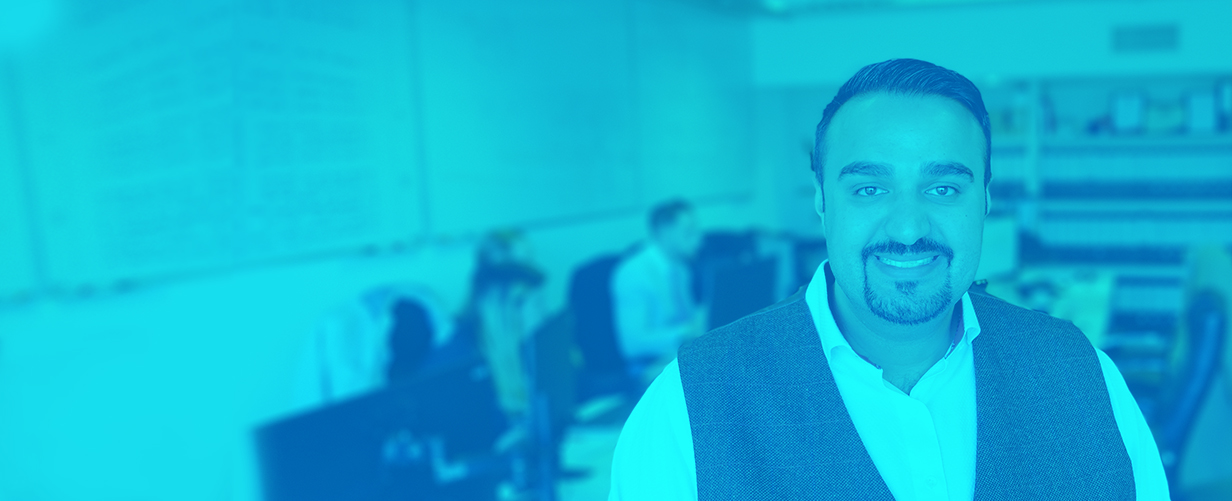
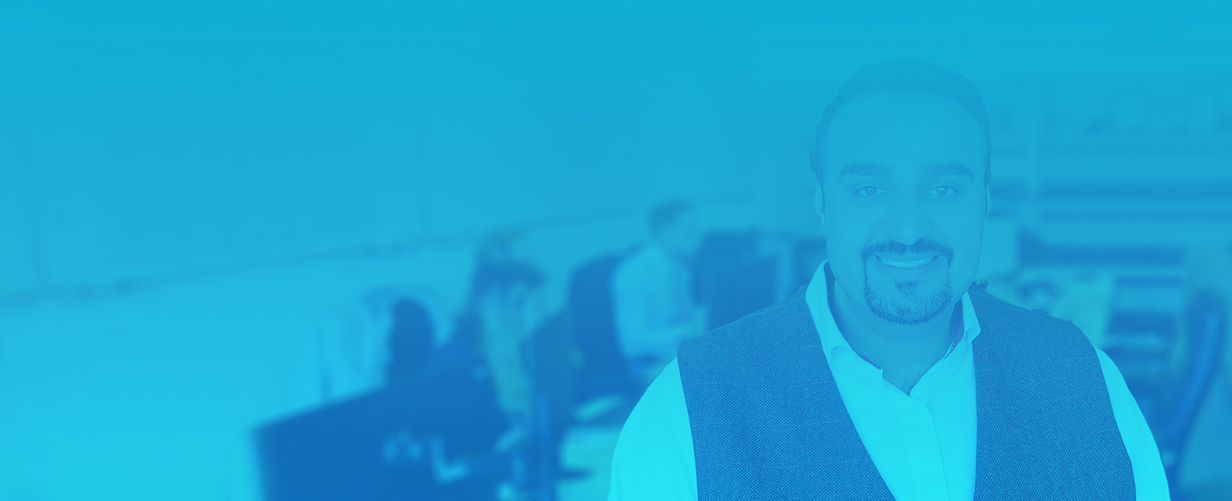
changing blog gradient to be on image

diff --git a/css/style.css b/css/style.css
@@ -1238,7 +1238,7 @@ body {
   top: 0;
   width: 100%;
   height: 100%;
-  background: -webkit-linear-gradient( rgba(15, 175, 212, 1), rgba(68, 132, 207, 0.2));
+  /* background: -webkit-linear-gradient( rgba(15, 175, 212, 1), rgba(68, 132, 207, 0.2)); */
   );
 }
 /*
@@ -3317,6 +3317,9 @@ body {
   }
   .page-content .row .copy {
     margin: 50px 0;
+  }
+  .page-content .button {
+    display:none !important;
   }
 }
 @media screen and (min-width: 500px) {
